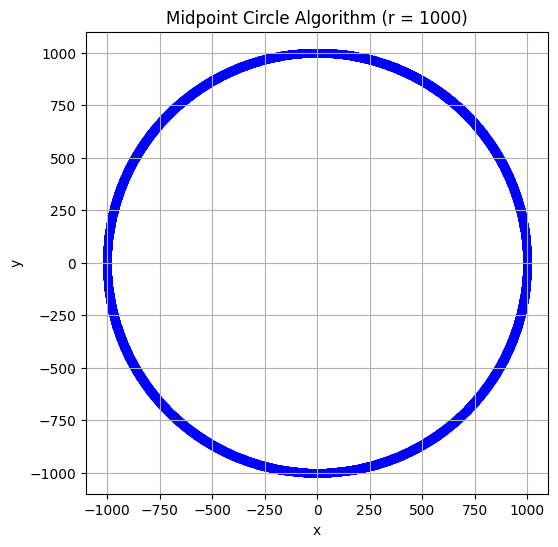
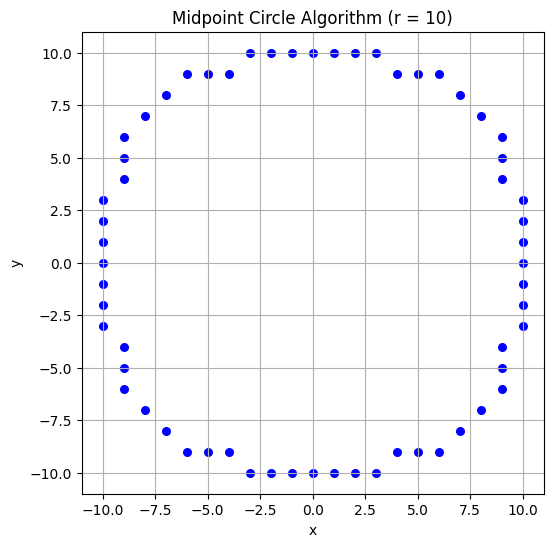
Complition of SQL Assignment

Changed region(s): [[0.0615, 0.0, 1.0, 0.9945], [0.7378, 0.9013, 0.7685, 0.9634]]

diff --git a/circle.py b/circle.py
@@ -27,7 +27,7 @@ def midpoint_circle(r):
     return points
 
 
-r = 1000
+r = 10
 points = midpoint_circle(r)
 
 xs = [p[0] for p in points]
